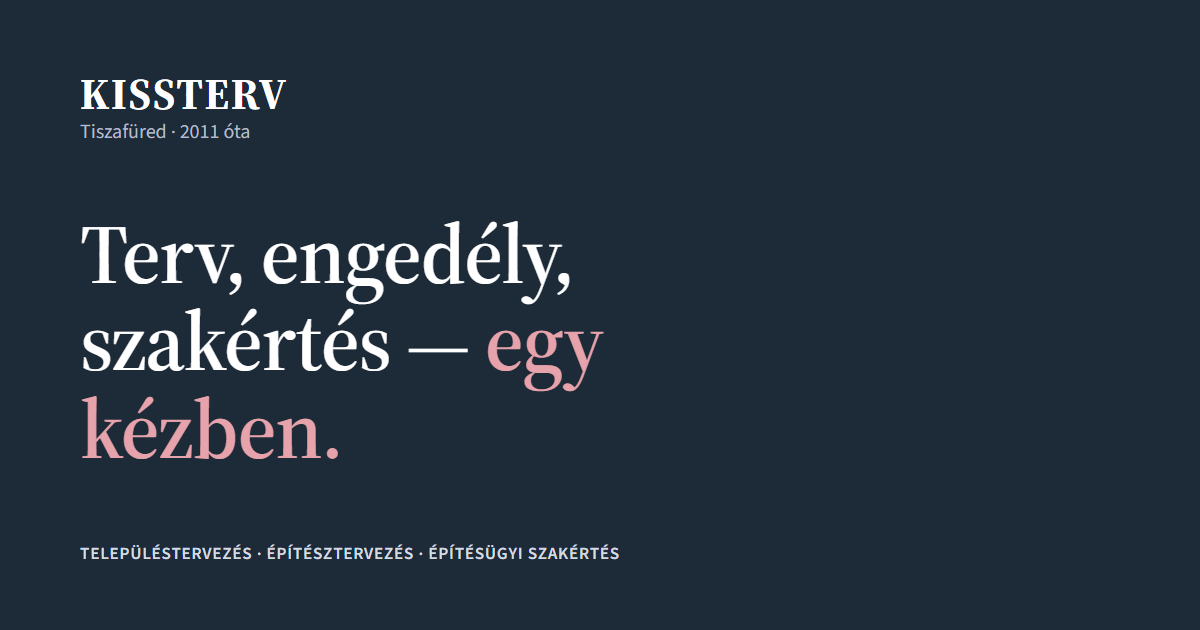
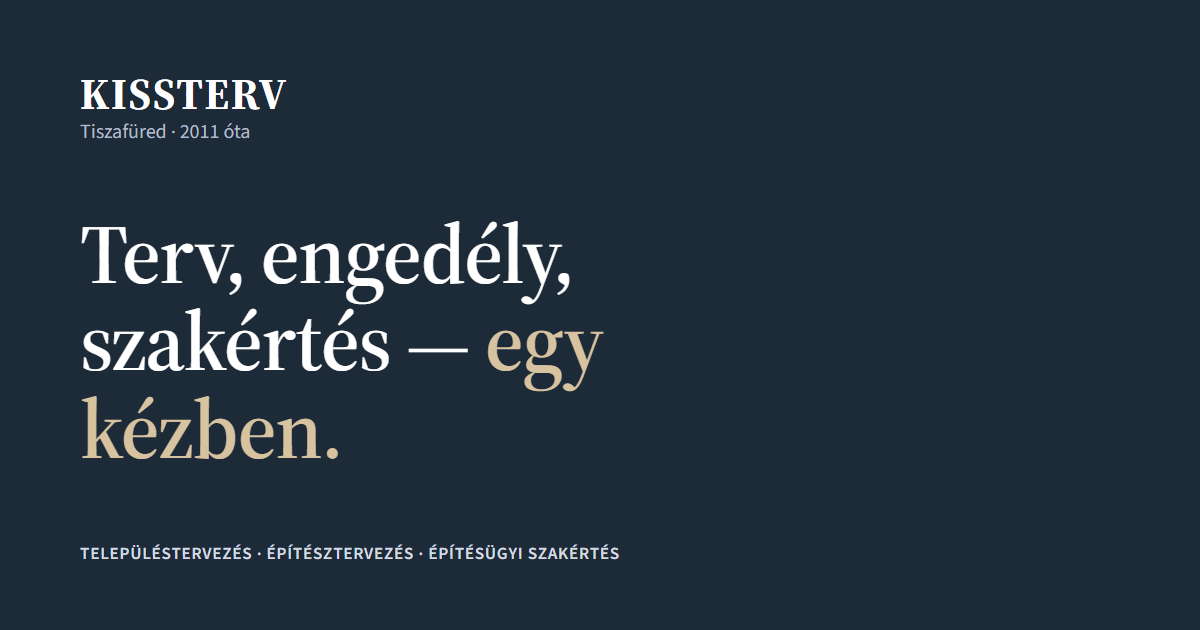
Kiemelőszín: pergamen

Changed region(s): [[0.0617, 0.6333, 0.2775, 0.754], [0.4008, 0.5127, 0.4933, 0.6333]]

diff --git a/assets/style.css b/assets/style.css
@@ -25,7 +25,7 @@
   --on-brand: #ffffff;
   --on-brand-2: #d6dbe2;
   --on-brand-3: #b3bcc8;
-  --brand-hi: #e7a3ab;  /* világos bordó (rózsa) kiemelés a tintakéken — 7,1:1 */
+  --brand-hi: #d8c3a0;  /* pergamen kiemelés a tintakéken (cím, aktív menüpont, fókusz) — 8,5:1 */
   --line-brand: rgba(255, 255, 255, .16);
   --main: #1d2a38;      /* tintakék szövegkiemelés a papíron — 13,4:1 */
   --main-2: #141e29;
